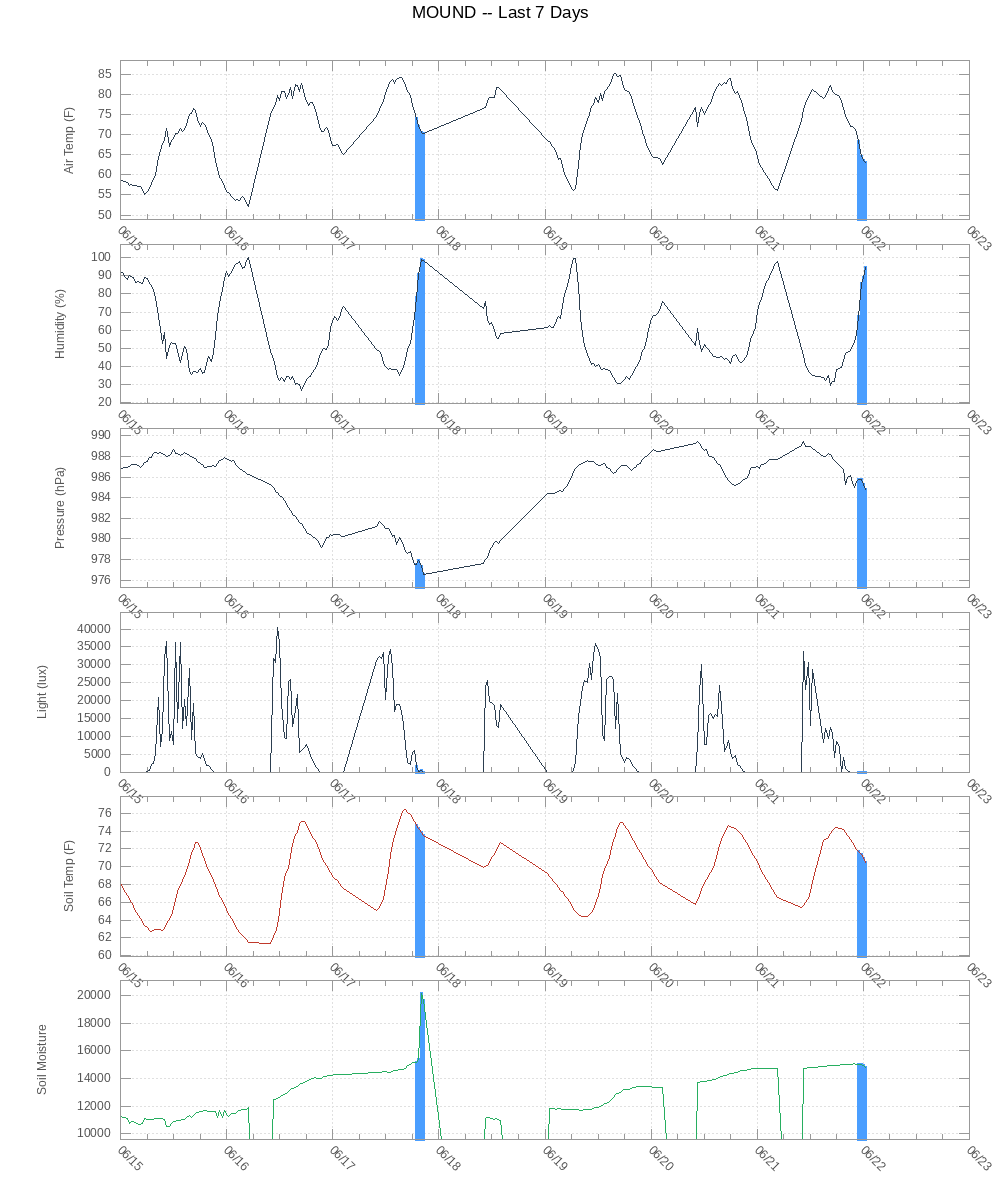
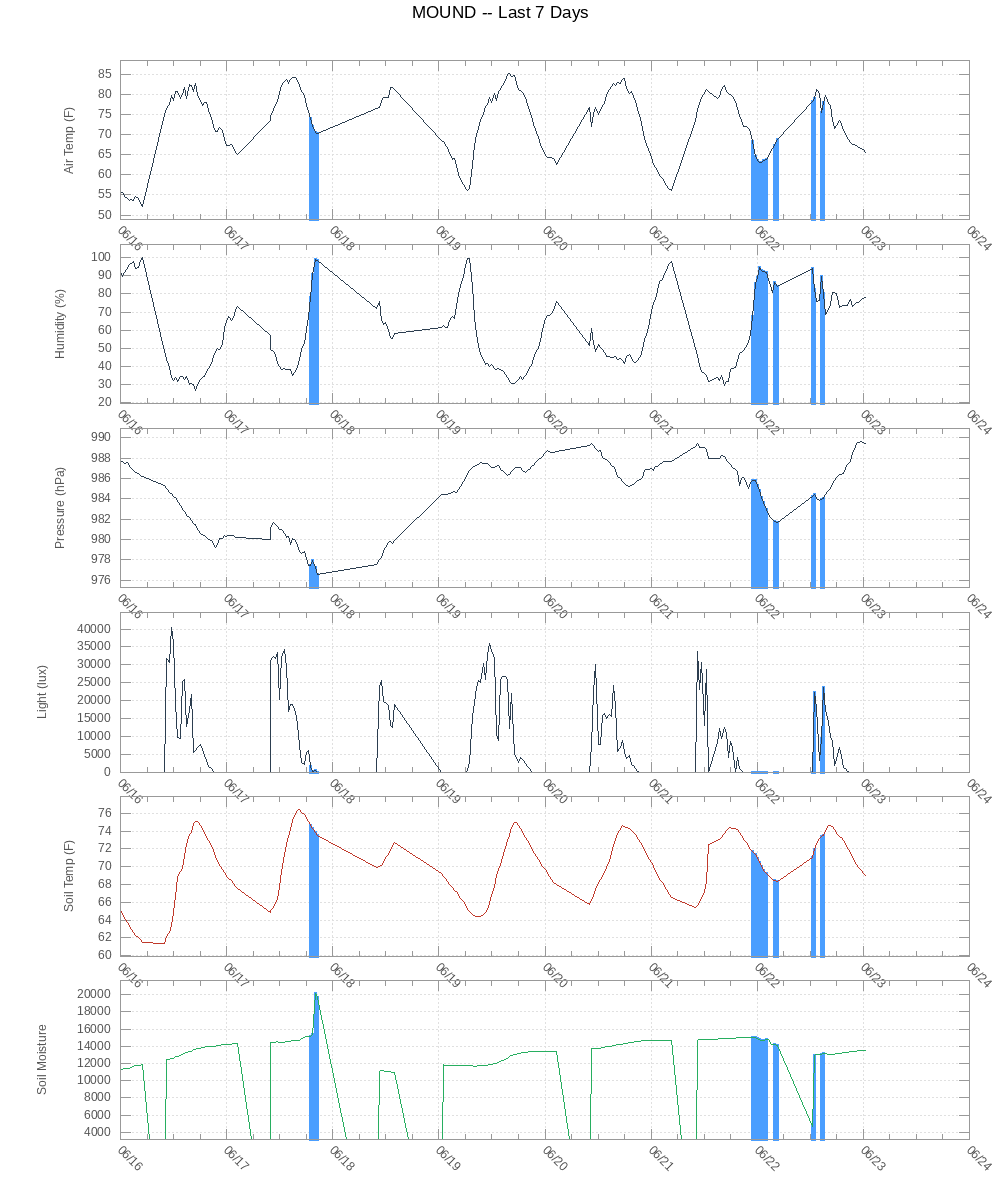
tweaked sensing.html

diff --git a/mound/index.html b/mound/index.html
@@ -38,21 +38,21 @@
 
       <hr style="border:none; border-top: 1px solid #ccc; margin: 1rem 0;">
 
-      <p><strong>Last reading:</strong> 2026-06-22 17:00:04</p>
+      <p><strong>Last reading:</strong> 2026-06-23 02:30:04</p>
 
       <table style="border:none; border-collapse:collapse; font-family:inherit; font-size:inherit; color:inherit;">
-        <tr><td style="padding: 0.2rem 1.5rem 0.2rem 0;">Air Temperature</td><td>73.4 F</td></tr>
-        <tr><td style="padding: 0.2rem 1.5rem 0.2rem 0;">Humidity</td><td>80.6%</td></tr>
-        <tr><td style="padding: 0.2rem 1.5rem 0.2rem 0;">Pressure</td><td>985.5 hPa</td></tr>
-        <tr><td style="padding: 0.2rem 1.5rem 0.2rem 0;">Light</td><td>8697 lux</td></tr>
-        <tr><td style="padding: 0.2rem 1.5rem 0.2rem 0;">Soil Temperature</td><td>74.5 F</td></tr>
+        <tr><td style="padding: 0.2rem 1.5rem 0.2rem 0;">Air Temperature</td><td>63.1 F</td></tr>
+        <tr><td style="padding: 0.2rem 1.5rem 0.2rem 0;">Humidity</td><td>83.6%</td></tr>
+        <tr><td style="padding: 0.2rem 1.5rem 0.2rem 0;">Pressure</td><td>989.7 hPa</td></tr>
+        <tr><td style="padding: 0.2rem 1.5rem 0.2rem 0;">Light</td><td>0 lux</td></tr>
+        <tr><td style="padding: 0.2rem 1.5rem 0.2rem 0;">Soil Temperature</td><td>68.0 F</td></tr>
         <tr><td style="padding: 0.2rem 1.5rem 0.2rem 0;">Soil Moisture</td><td>Moist</td></tr>
         <tr><td style="padding: 0.2rem 1.5rem 0.2rem 0;">Rain</td><td>No</td></tr>
       </table>
 
       <hr style="border:none; border-top: 1px solid #ccc; margin: 1rem 0;">
 
-      <p><strong>Today -- 2026-06-22</strong></p>
+      <p><strong>Today -- 2026-06-23</strong></p>
 
       <figure>
         <img src="graphs/today.png"
@@ -106,7 +106,7 @@
 
     </blockquote>
 
-    <p style="font-size: 0.85rem; color: #999;">2026-06-22 · auto-generated</p>
+    <p style="font-size: 0.85rem; color: #999;">2026-06-23 · auto-generated</p>
 
   </div>
 

diff --git a/sensing.html b/sensing.html
@@ -131,7 +131,7 @@
       <!-- ── PHILOSOPHY ── -->
       <p>
         <strong>Deliberate Simplicity</strong><br>
-        We're inundated with powerful technology nowadays; the glass computer we carry in our pockets
+        We're inundated with powerful technology nowadays; the glass computers we carry in our pockets
         are practically indistinguishable from magic. But this project isn't about pushing humanity forward.
         To the contrary, it's about slowing down and paying attention. It's about integrating clever,
         human-made tools with nature as a deliberate way to observe and document... and simplicity is the point.<br><br>
@@ -188,7 +188,7 @@
         <strong>Imagined Reality</strong><br>
         Think of the last nature documentary you watched or a memorable National Geographic photo... those
         are <em>real places</em>. Those places <em>actually exist</em>. Pick out a rock in the foreground &mdash;
-        that rock is probably still there! Imagine sitting next to it: Maybe it's a quiet evening... sun
+        that rock is probably still there! Imagine sitting next to it: Maybe it's early evening... sun
         setting, light breeze, quiet. Pick it up, feel the weight in your hand. The dirt is warm and comforting.
         Scan the horizon. Notice the patterns in the clouds and the trees in the distance. The rock experienced
         this for eons and will continue to lie there patiently for eons after you've left.<br><br>
@@ -243,7 +243,7 @@
       <p>
         <strong>What's in a Name?</strong><br>
         The names of a few of my previous projects were inspired by indigenous peoples of this area:
-        Adena &amp; Hopewell. While brainstorming to continue the trend, I realized the street I live on
+        <a href="adena_rover.html">Adena</a> &amp; <a href="hopewell_v1-0.html">Hopewell</a>. While brainstorming to continue the trend, I realized the street I live on
         is called "Mound", as in, effigy mounds built by Native American cultures. Seemed too fitting to pass up.<br><br>
         These people &mdash; <em>real people</em> with stories and experiences of their own &mdash; were naturalists too.
         They built mounds to observe the sky, to mark seasons, to pay attention to the land. MOUND is doing
@@ -349,7 +349,7 @@
 
       <!-- ── CLOSING ── -->
       <p>
-        At the edges where nature and technology meet, something unexpected happens... not contradiction but maybe a conversation. MOUND is a handful of cheap sensors on a pole in a Central Ohio garden, patiently logging the world in sparse numbers every thirty minutes. The data is only half the story. The other half belongs to imagination.
+        - At the edges where nature and technology meet, something unexpected happens... not contradiction but a conversation. MOUND is a handful of cheap sensors on a pole in a Central Ohio garden, patiently logging the world in sparse numbers every thirty minutes. The data is only half the story. The other half belongs to imagination.
       </p>
 
       <p><em><a href="nature-tech_romance.html"><u>"It's at the edges where the most interesting things appear."</u></em>